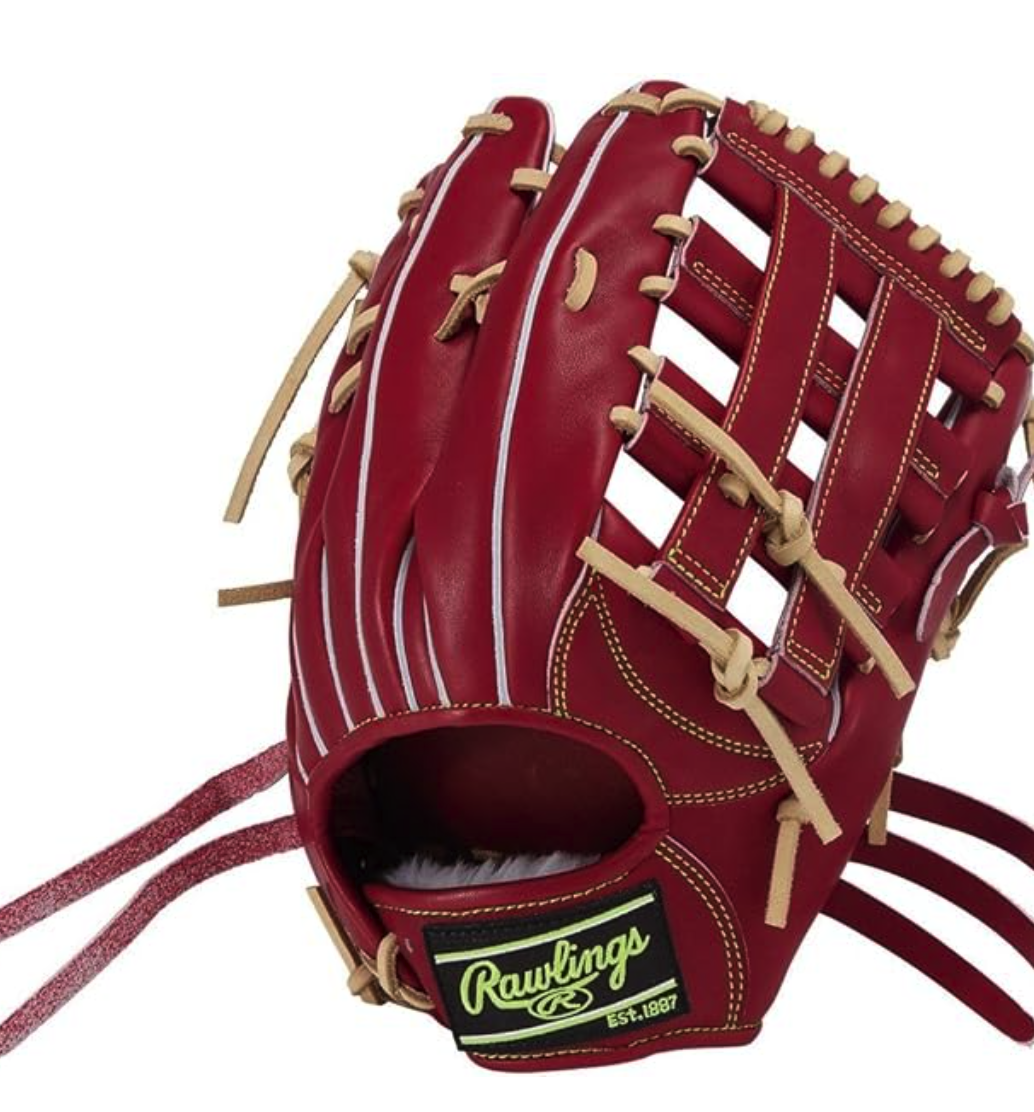
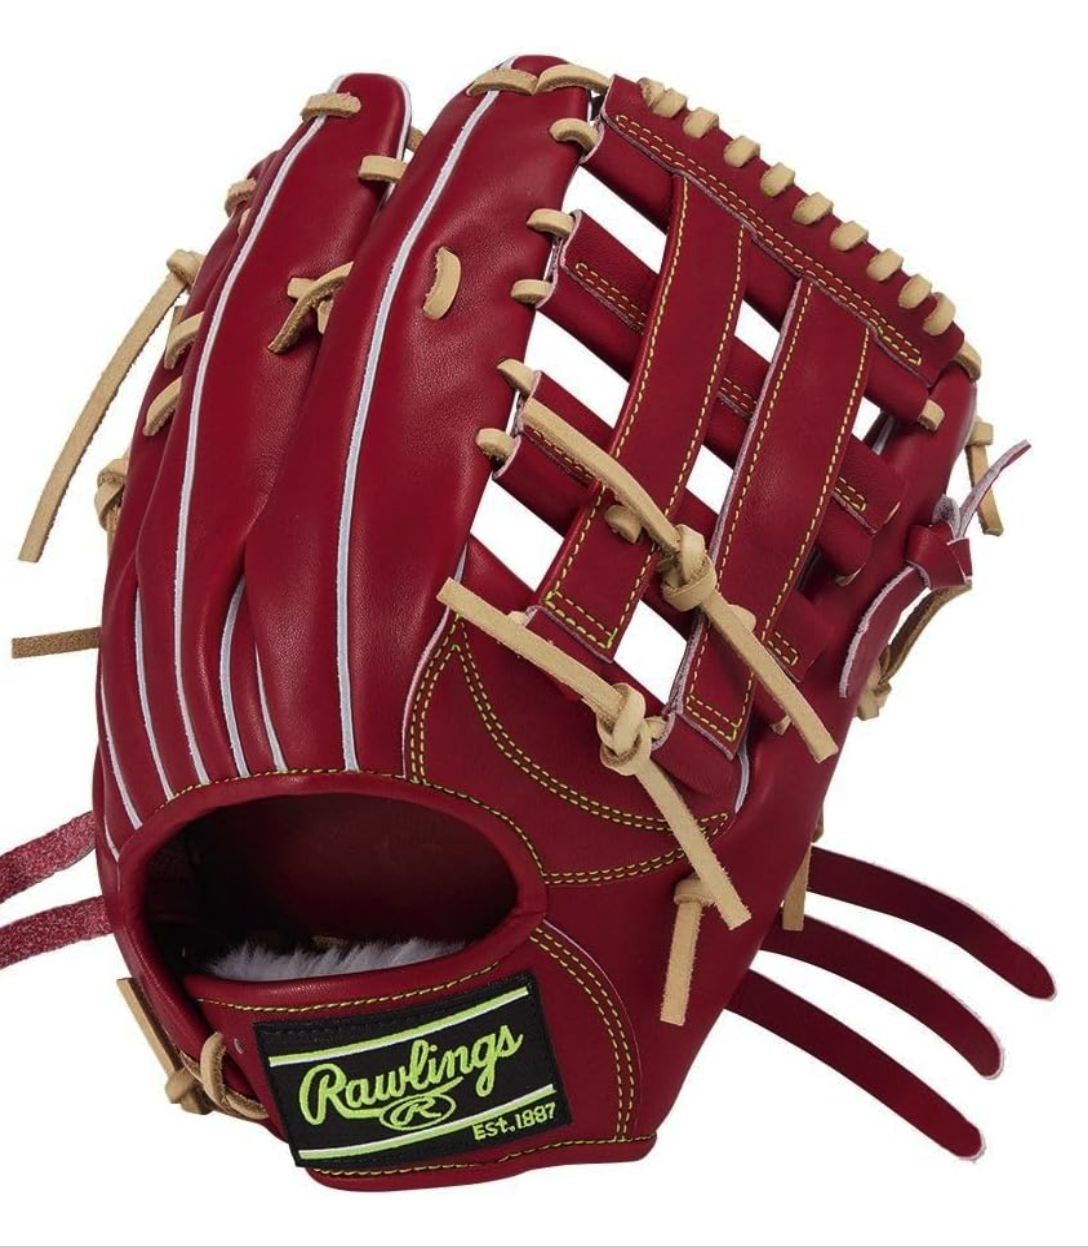
Replace product image and fix CSS to show full image without cropping

diff --git a/styles.css b/styles.css
@@ -415,23 +415,22 @@ a:hover {
 .card-image {
     position: relative;
     width: 100%;
-    min-height: 250px;
+    height: auto;
     background-color: #ffffff;
     overflow: visible;
     cursor: pointer;
     display: flex;
     align-items: center;
     justify-content: center;
-    padding: 1rem;
+    padding: 0.5rem;
     box-sizing: border-box;
 }
 
 .card-image img {
-    max-width: 100%;
-    max-height: 400px;
-    width: auto;
+    width: 100%;
     height: auto;
-    object-fit: contain;
+    max-width: 100%;
+    display: block;
     transition: var(--transition);
 }
 
@@ -668,11 +667,10 @@ a:hover {
 }
 
 .modal-product-image img {
-    max-width: 100%;
-    max-height: 600px;
-    width: auto;
+    width: 100%;
     height: auto;
-    object-fit: contain;
+    max-width: 100%;
+    display: block;
 }
 
 .modal-product-title {
